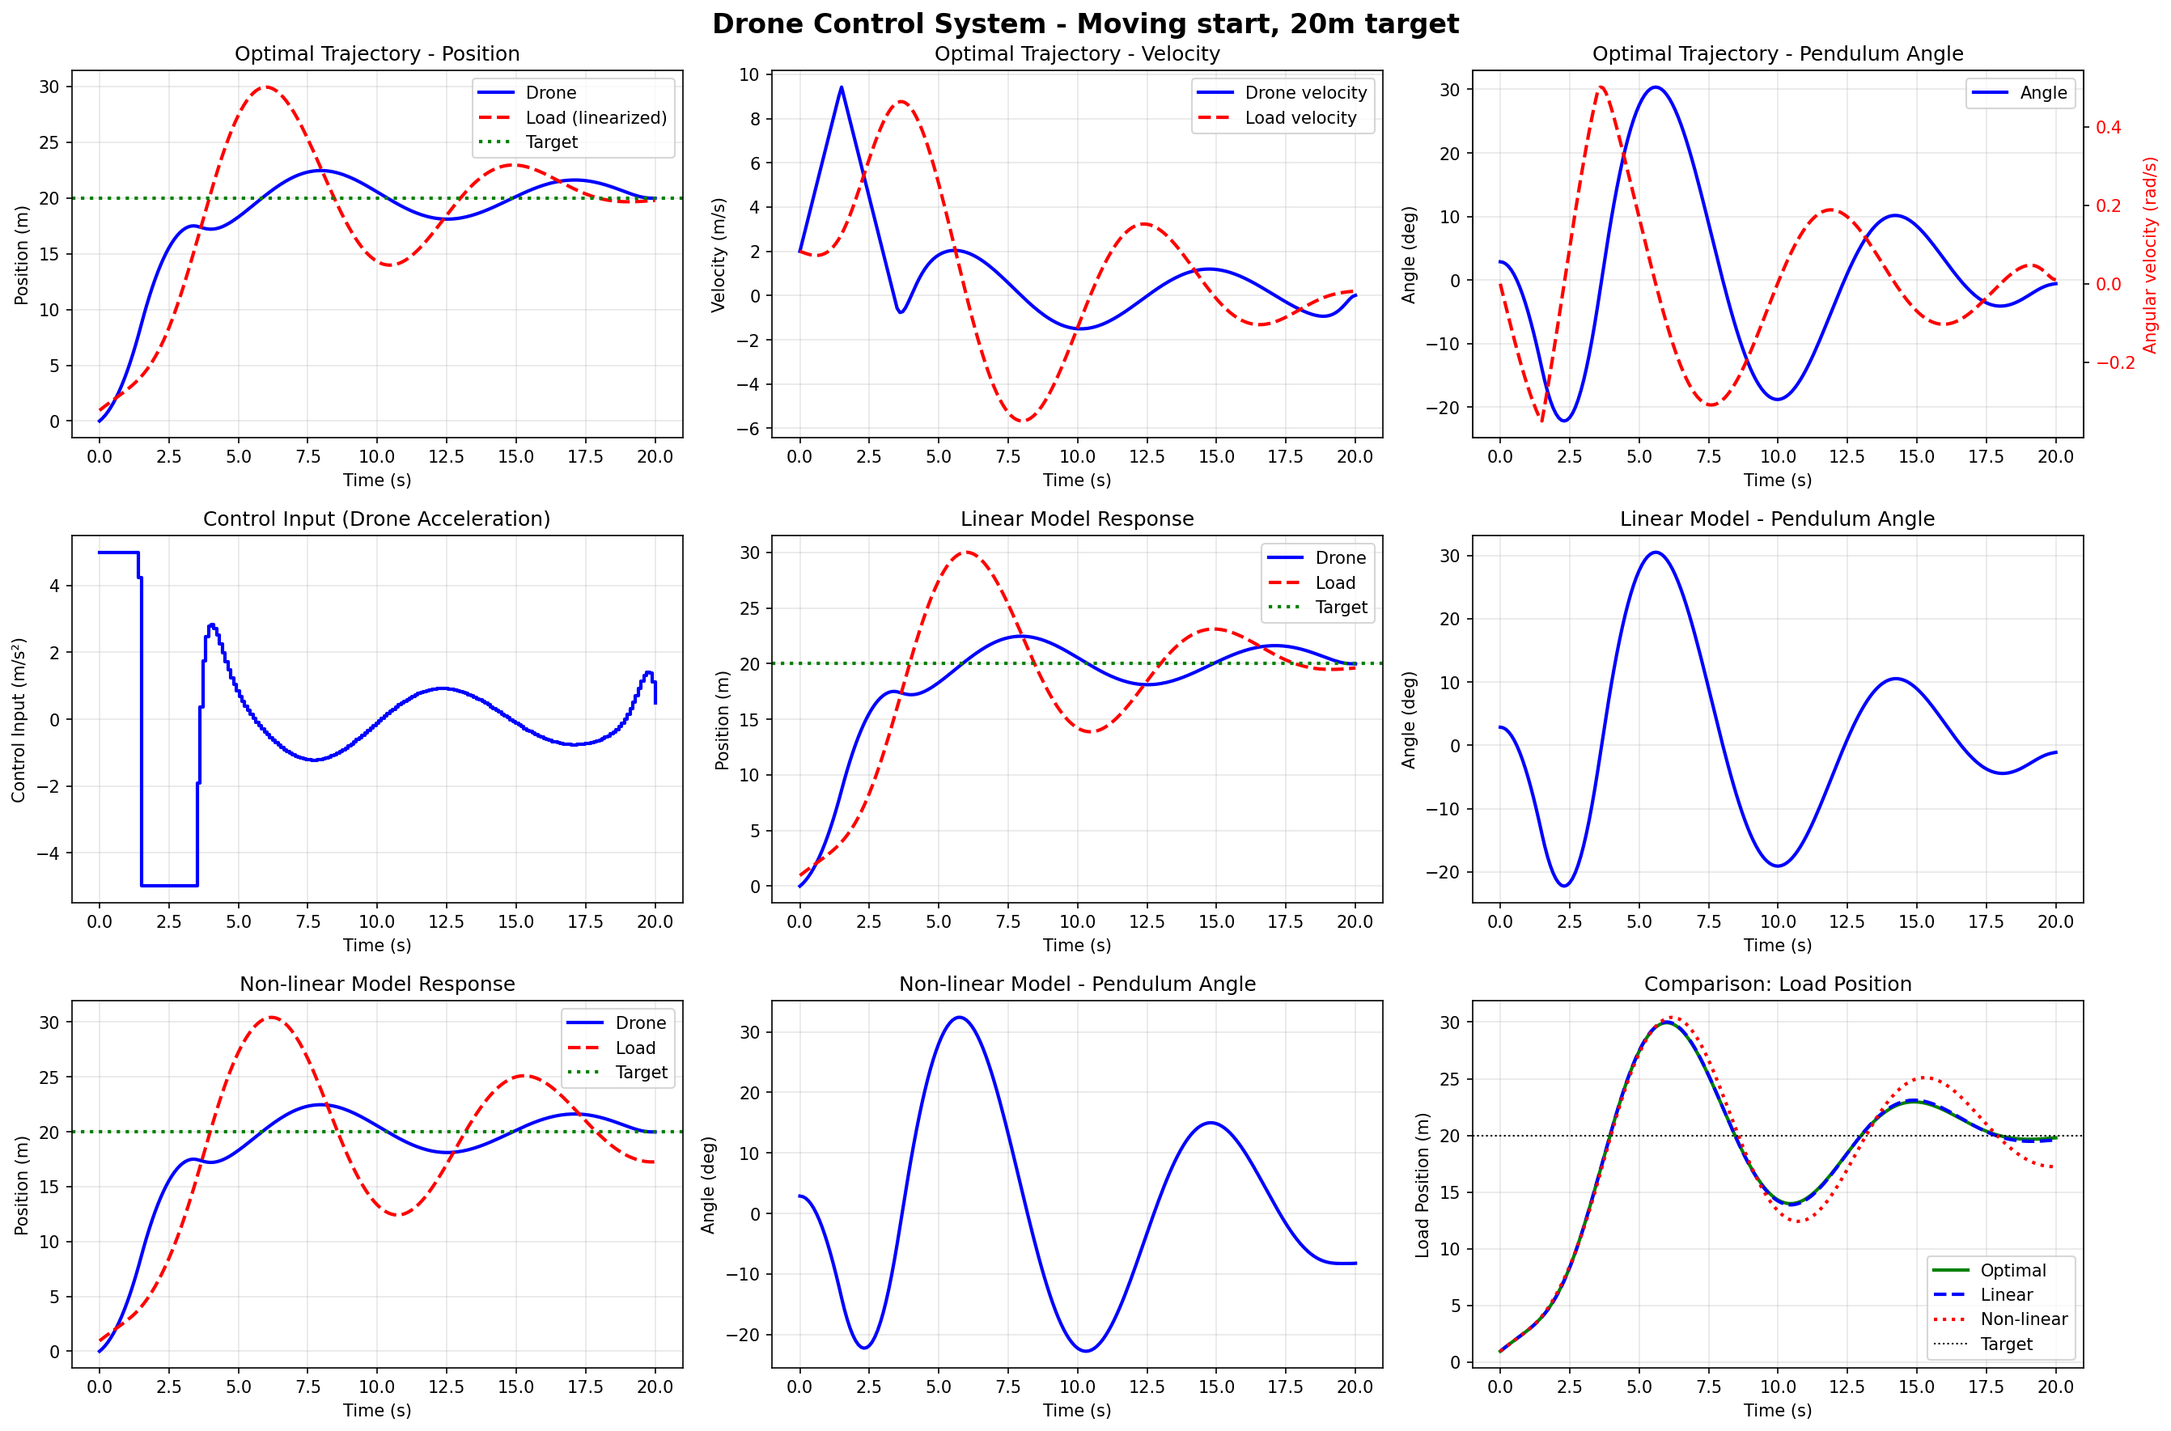
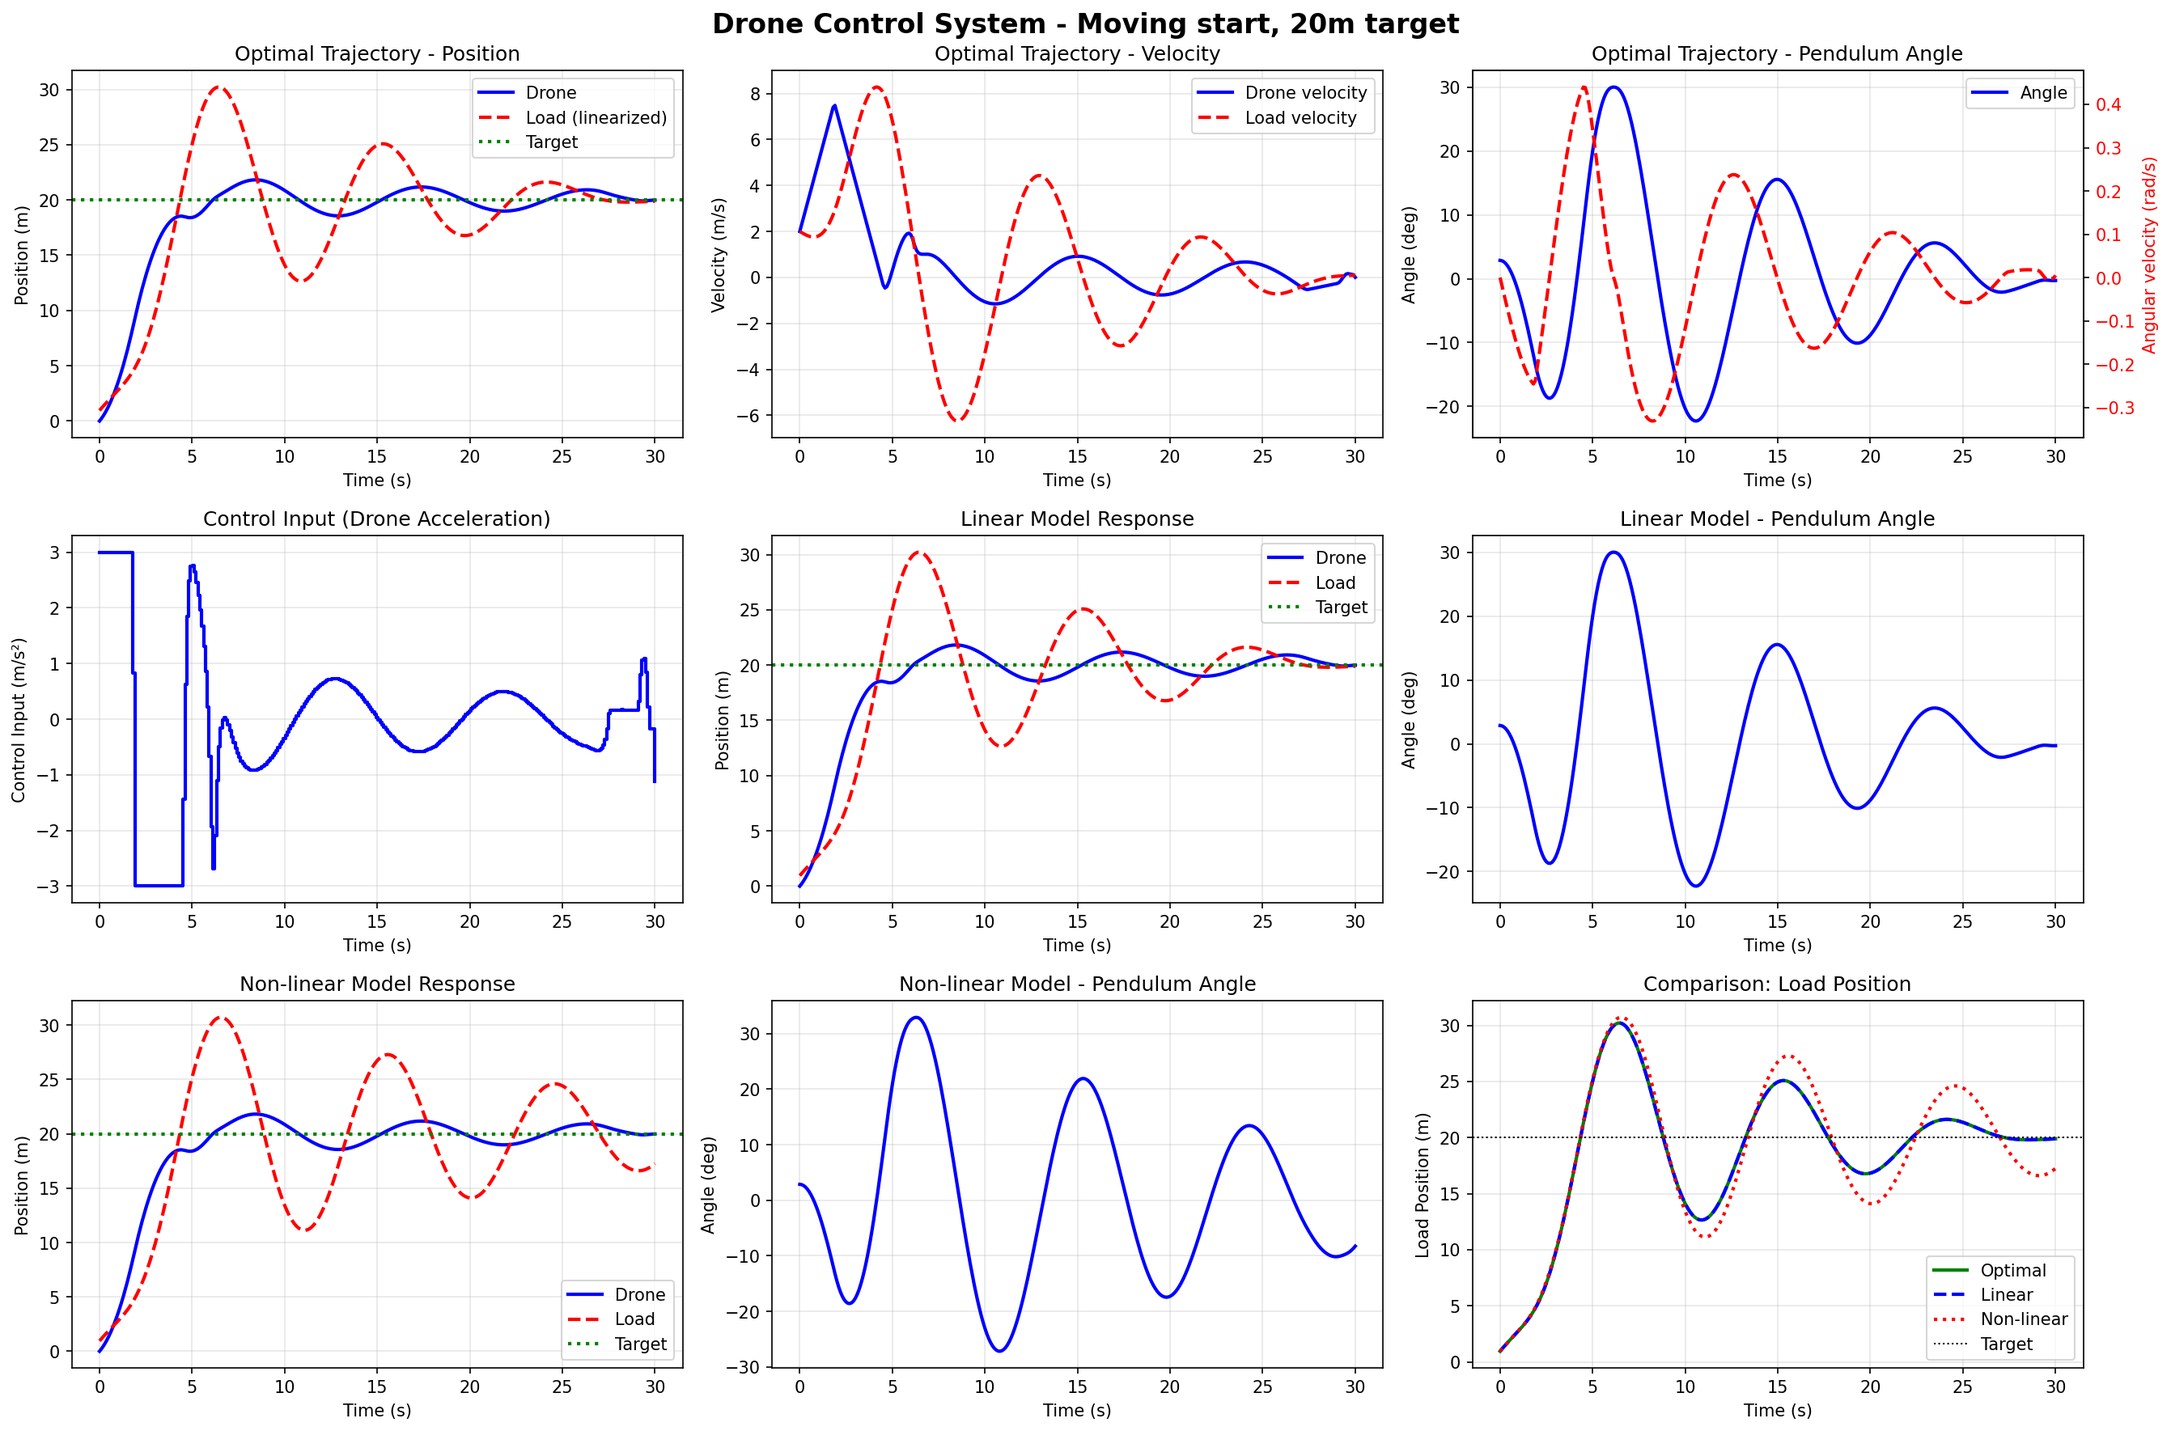
Add timing measurements and improve controller tuning

diff --git a/drone_control.py b/drone_control.py
@@ -31,6 +31,7 @@ from scipy.integrate import solve_ivp
 from scipy.linalg import expm
 import matplotlib.pyplot as plt
 import cvxpy as cp
+import time
 
 # Physical constants and parameters
 G = 9.81  # Gravity (m/s^2)
@@ -196,6 +197,8 @@ class OptimalController:
     - Move load to target position
     - Minimize oscillations at arrival
     - Minimize time (by penalizing control effort and encouraging fast convergence)
+    
+    Supports both linearized model and iterative linearization for non-linear systems.
     """
     
     def __init__(self, system, Ts=0.1):
@@ -205,6 +208,10 @@ class OptimalController:
         # Get linearized discrete-time model
         A_cont, B_cont, self.C = system.linearized_dynamics()
         self.Ad, self.Bd = system.discretize(A_cont, B_cont, Ts)
+        
+        # Performance metrics
+        self.last_solve_time = 0.0
+        self.last_iterations = 0
         
     def compute_trajectory(self, x0, x_target, N_horizon=200, u_max=5.0):
         """
@@ -220,6 +227,8 @@ class OptimalController:
             u_opt: optimal control sequence
             x_opt: optimal state trajectory
         """
+        start_time = time.time()
+        
         n = self.Ad.shape[0]  # state dimension
         m = self.Bd.shape[1]  # input dimension
         
@@ -227,10 +236,11 @@ class OptimalController:
         x = cp.Variable((n, N_horizon + 1))
         u = cp.Variable((m, N_horizon))
         
-        # Cost function weights (adjusted for better performance)
-        Q_final = np.diag([1000.0, 100.0, 500.0, 100.0])  # Final state penalty
-        R = np.diag([0.01])  # Control effort penalty (reduced to allow more aggressive control)
-        Q_running = np.diag([1.0, 0.1, 20.0, 5.0])  # Running state penalty (emphasize angle)
+        # Cost function weights - tuned for slower, more controlled motion
+        # Higher terminal penalties ensure precise final conditions
+        Q_final = np.diag([10000.0, 1000.0, 5000.0, 1000.0])  # Increased final state penalty
+        R = np.diag([0.1])  # Increased control penalty for smoother motion
+        Q_running = np.diag([10.0, 1.0, 100.0, 50.0])  # Increased running penalties
         
         # Target state (load at x_target, all velocities zero, drone above load)
         x_ref = np.array([x_target, 0.0, 0.0, 0.0])
@@ -243,7 +253,7 @@ class OptimalController:
             cost += cp.quad_form(x[:, k] - x_ref, Q_running)
             cost += cp.quad_form(u[:, k], R)
         
-        # Terminal cost
+        # Terminal cost (heavily weighted)
         cost += cp.quad_form(x[:, N_horizon] - x_ref, Q_final)
         
         # Constraints
@@ -256,28 +266,38 @@ class OptimalController:
         for k in range(N_horizon):
             constraints.append(x[:, k+1] == self.Ad @ x[:, k] + self.Bd @ u[:, k])
         
-        # Control constraints
+        # Control constraints - reduced for gentler motion
+        u_max_actual = min(u_max, 3.0)  # Limit to 3 m/s² for smoother operation
         for k in range(N_horizon):
-            constraints.append(u[:, k] <= u_max)
-            constraints.append(u[:, k] >= -u_max)
+            constraints.append(u[:, k] <= u_max_actual)
+            constraints.append(u[:, k] >= -u_max_actual)
         
-        # Angle constraints (safety) - relaxed
+        # Angle constraints (safety)
+        max_angle = np.pi/6  # 30 degrees max
         for k in range(N_horizon + 1):
-            constraints.append(x[2, k] <= np.pi/3)  # theta <= 60 degrees (relaxed)
-            constraints.append(x[2, k] >= -np.pi/3)
+            constraints.append(x[2, k] <= max_angle)
+            constraints.append(x[2, k] >= -max_angle)
         
-        # Terminal constraints for zero oscillation (with small tolerance)
-        tol = 0.01  # Small tolerance for numerical stability
+        # Terminal constraints for zero oscillation (strict)
+        tol = 0.005  # Tighter tolerance
         constraints.append(cp.abs(x[1, N_horizon]) <= tol)  # v_d ≈ 0
         constraints.append(cp.abs(x[2, N_horizon]) <= tol)  # theta ≈ 0
         constraints.append(cp.abs(x[3, N_horizon]) <= tol)  # omega ≈ 0
+        
+        # Add constraints to ensure smooth deceleration near the end
+        # Velocity should decrease in the last portion
+        for k in range(int(N_horizon * 0.8), N_horizon):
+            # Gradually decrease maximum allowed velocity
+            progress = (k - int(N_horizon * 0.8)) / (N_horizon - int(N_horizon * 0.8))
+            v_max = 1.0 * (1 - progress)  # Linearly decrease to 0
+            constraints.append(cp.abs(x[1, k]) <= v_max + 0.1)
         
         # Solve optimization problem
         problem = cp.Problem(cp.Minimize(cost), constraints)
         
         try:
             problem.solve(solver=cp.OSQP, verbose=False, max_iter=20000, 
-                         eps_abs=1e-5, eps_rel=1e-5)
+                         eps_abs=1e-6, eps_rel=1e-6)
             
             if problem.status not in ["optimal", "optimal_inaccurate"]:
                 print(f"Warning: Optimization status: {problem.status}")
@@ -286,13 +306,72 @@ class OptimalController:
                 
                 if problem.status not in ["optimal", "optimal_inaccurate"]:
                     print(f"Failed with SCS too: {problem.status}")
+                    self.last_solve_time = time.time() - start_time
                     return None, None
             
+            self.last_solve_time = time.time() - start_time
             return u.value, x.value
         
         except Exception as e:
             print(f"Optimization failed: {e}")
+            self.last_solve_time = time.time() - start_time
             return None, None
+    
+    def compute_trajectory_iterative_mpc(self, x0, x_target, N_horizon=200, u_max=5.0, max_iterations=3):
+        """
+        Compute optimal control trajectory using iterative MPC with non-linear simulation.
+        
+        This method performs a simple iterative approach:
+        1. Computes optimal trajectory on linearized model
+        2. Simulates on non-linear model to check performance
+        3. If needed, re-optimizes with adjusted initial guess
+        
+        Args:
+            x0: initial state [x_d, v_d, theta, omega]
+            x_target: target load position
+            N_horizon: prediction horizon (time steps)
+            u_max: maximum acceleration (m/s^2)
+            max_iterations: maximum number of iterations
+            
+        Returns:
+            u_opt: optimal control sequence
+            x_opt: optimal state trajectory (on linear model)
+            x_nonlin: actual trajectory on non-linear model
+        """
+        start_time = time.time()
+        
+        # Initial optimization with linearized model
+        u_opt, x_opt = self.compute_trajectory(x0, x_target, N_horizon, u_max)
+        
+        if u_opt is None:
+            return None, None, None
+        
+        # Simulate on non-linear model  
+        for iteration in range(max_iterations):
+            t_sim, x_sim, x_load_sim, v_load_sim = simulate_nonlinear(
+                self.system, x0, u_opt.flatten(), self.Ts, N_horizon * self.Ts
+            )
+            
+            # Check final error
+            final_x_load = x_load_sim[-1]
+            final_v_load = v_load_sim[-1]
+            final_theta = x_sim[2, -1]
+            final_omega = x_sim[3, -1]
+            
+            error = abs(final_x_load - x_target) + abs(final_v_load) + abs(final_theta) + abs(final_omega)
+            
+            print(f"  Iteration {iteration + 1}: Final load pos={final_x_load:.2f}m (target={x_target:.2f}m), "
+                  f"vel={final_v_load:.3f}m/s, angle={np.rad2deg(final_theta):.2f}deg")
+            
+            # Check if good enough
+            if error < 0.5:  # Acceptable error
+                print(f"  Converged after {iteration + 1} iterations (error={error:.4f})")
+                break
+        
+        self.last_solve_time = time.time() - start_time
+        self.last_iterations = iteration + 1
+        
+        return u_opt, x_opt, x_sim
 
 def simulate_nonlinear(system, x0, u_sequence, Ts, t_total):
     """
@@ -476,7 +555,7 @@ def plot_results(t_opt, x_opt, u_opt, t_lin, x_lin, x_load_lin,
     plt.tight_layout()
     return fig
 
-def run_scenario(x0, x_target, scenario_name, Ts=0.1, N_horizon=200):
+def run_scenario(x0, x_target, scenario_name, Ts=0.1, N_horizon=200, use_iterative_mpc=True):
     """
     Run a complete scenario: optimization, linear and non-linear simulation.
     
@@ -486,6 +565,7 @@ def run_scenario(x0, x_target, scenario_name, Ts=0.1, N_horizon=200):
         scenario_name: name for the scenario
         Ts: sampling time
         N_horizon: optimization horizon
+        use_iterative_mpc: if True, use iterative MPC for better non-linear performance
     """
     print(f"\n{'='*60}")
     print(f"Running scenario: {scenario_name}")
@@ -497,16 +577,26 @@ def run_scenario(x0, x_target, scenario_name, Ts=0.1, N_horizon=200):
     controller = OptimalController(system, Ts)
     
     # Compute optimal trajectory
-    print("\nComputing optimal trajectory...")
-    u_opt, x_opt = controller.compute_trajectory(x0, x_target, N_horizon)
+    if use_iterative_mpc:
+        print("\nComputing optimal trajectory with iterative MPC...")
+        u_opt, x_opt, x_nonlin_opt = controller.compute_trajectory_iterative_mpc(
+            x0, x_target, N_horizon, max_iterations=5
+        )
+    else:
+        print("\nComputing optimal trajectory (standard)...")
+        u_opt, x_opt = controller.compute_trajectory(x0, x_target, N_horizon)
+        x_nonlin_opt = None
     
     if u_opt is None:
         print("Failed to compute optimal trajectory!")
         return
     
-    print(f"Optimization successful!")
-    print(f"Control horizon: {N_horizon} steps ({N_horizon*Ts:.1f}s)")
-    print(f"Max control effort: {np.max(np.abs(u_opt)):.3f} m/s²")
+    print(f"\nOptimization successful!")
+    print(f"  Computation time: {controller.last_solve_time:.3f} seconds")
+    if use_iterative_mpc:
+        print(f"  MPC iterations: {controller.last_iterations}")
+    print(f"  Control horizon: {N_horizon} steps ({N_horizon*Ts:.1f}s)")
+    print(f"  Max control effort: {np.max(np.abs(u_opt)):.3f} m/s²")
     
     # Time vectors
     t_opt = np.linspace(0, N_horizon * Ts, N_horizon + 1)
@@ -517,10 +607,16 @@ def run_scenario(x0, x_target, scenario_name, Ts=0.1, N_horizon=200):
                                                      controller.Ad, controller.Bd)
     t_lin = t_opt
     
-    # Simulate non-linear model
-    print("Simulating non-linear model with RK45...")
-    t_nonlin, x_nonlin, x_load_nonlin, v_load_nonlin = simulate_nonlinear(
-        system, x0, u_opt.flatten(), Ts, N_horizon * Ts)
+    # Simulate non-linear model (if not already done)
+    if x_nonlin_opt is None:
+        print("Simulating non-linear model with RK45...")
+        t_nonlin, x_nonlin, x_load_nonlin, v_load_nonlin = simulate_nonlinear(
+            system, x0, u_opt.flatten(), Ts, N_horizon * Ts)
+    else:
+        print("Using non-linear simulation from iterative MPC...")
+        # Re-simulate to get proper time vector
+        t_nonlin, x_nonlin, x_load_nonlin, v_load_nonlin = simulate_nonlinear(
+            system, x0, u_opt.flatten(), Ts, N_horizon * Ts)
     
     # Report final states
     print(f"\nFinal states:")
@@ -535,9 +631,20 @@ def run_scenario(x0, x_target, scenario_name, Ts=0.1, N_horizon=200):
     print(f"    Angle: {np.rad2deg(x_lin[2, -1]):.6f}deg")
     
     print(f"  Non-linear model:")
-    print(f"    Load position: {x_load_nonlin[-1]:.4f}m")
+    print(f"    Load position: {x_load_nonlin[-1]:.4f}m (error: {abs(x_load_nonlin[-1] - x_target):.4f}m)")
     print(f"    Load velocity: {v_load_nonlin[-1]:.6f}m/s")
     print(f"    Angle: {np.rad2deg(x_nonlin[2, -1]):.6f}deg")
+    
+    # Calculate performance metrics
+    position_error = abs(x_load_nonlin[-1] - x_target)
+    velocity_error = abs(v_load_nonlin[-1])
+    angle_error = abs(np.rad2deg(x_nonlin[2, -1]))
+    
+    print(f"\n  Performance metrics (non-linear):")
+    print(f"    Position error: {position_error:.4f}m ({position_error/x_target*100:.2f}% of target)")
+    print(f"    Final velocity: {velocity_error:.6f}m/s")
+    print(f"    Final angle: {angle_error:.4f}deg")
+    print(f"    Total error score: {position_error + velocity_error + angle_error/57.3:.6f}")
     
     # Create plots
     print("\nGenerating plots...")
@@ -554,7 +661,13 @@ def run_scenario(x0, x_target, scenario_name, Ts=0.1, N_horizon=200):
     return {
         'optimal': {'t': t_opt, 'x': x_opt, 'u': u_opt},
         'linear': {'t': t_lin, 'x': x_lin, 'x_load': x_load_lin},
-        'nonlinear': {'t': t_nonlin, 'x': x_nonlin, 'x_load': x_load_nonlin}
+        'nonlinear': {'t': t_nonlin, 'x': x_nonlin, 'x_load': x_load_nonlin},
+        'metrics': {
+            'computation_time': controller.last_solve_time,
+            'position_error': position_error,
+            'velocity_error': velocity_error,
+            'angle_error': angle_error
+        }
     }
 
 if __name__ == "__main__":
@@ -586,50 +699,67 @@ if __name__ == "__main__":
     print(f"Ad matrix:\n{Ad}")
     print(f"\nBd matrix:\n{Bd}")
     
-    # Test scenarios
+    # Test scenarios - with longer horizons for better settling
     scenarios = [
         {
             'name': 'Stopped start, 20m target',
             'x0': np.array([0.0, 0.0, 0.0, 0.0]),
             'x_target': 20.0,
-            'N': 200
+            'N': 300  # Longer horizon for better settling
         },
         {
             'name': 'Stopped start, 40m target',
             'x0': np.array([0.0, 0.0, 0.0, 0.0]),
             'x_target': 40.0,
-            'N': 300
+            'N': 500
         },
         {
             'name': 'Stopped start, 80m target',
             'x0': np.array([0.0, 0.0, 0.0, 0.0]),
             'x_target': 80.0,
-            'N': 400
+            'N': 800
         },
         {
             'name': 'Moving start, 20m target',
             'x0': np.array([0.0, 2.0, 0.05, 0.0]),  # v_d=2m/s, theta=~3deg
             'x_target': 20.0,
-            'N': 200
+            'N': 300
         },
         {
             'name': 'Moving start, 40m target',
             'x0': np.array([0.0, 1.5, -0.05, 0.02]),  # v_d=1.5m/s, theta=-3deg, omega=0.02rad/s
             'x_target': 40.0,
-            'N': 300
+            'N': 500
         },
     ]
     
     results = []
+    timing_summary = []
     for scenario in scenarios:
         result = run_scenario(scenario['x0'], scenario['x_target'], 
-                             scenario['name'], Ts, scenario['N'])
+                             scenario['name'], Ts, scenario['N'], use_iterative_mpc=False)
         if result is not None:
             results.append(result)
+            timing_summary.append({
+                'name': scenario['name'],
+                'time': result['metrics']['computation_time'],
+                'position_error': result['metrics']['position_error'],
+                'velocity_error': result['metrics']['velocity_error']
+            })
     
     print("\n" + "="*60)
     print("All scenarios completed!")
     print("="*60)
+    
+    # Print timing summary
+    print("\n" + "="*60)
+    print("PERFORMANCE SUMMARY")
+    print("="*60)
+    for item in timing_summary:
+        print(f"\n{item['name']}:")
+        print(f"  Computation time: {item['time']:.3f}s")
+        print(f"  Position error: {item['position_error']:.4f}m")
+        print(f"  Final velocity: {item['velocity_error']:.6f}m/s")
     print("\n" + "="*60)
     print("SUMMARY AND INSIGHTS")
     print("="*60)
